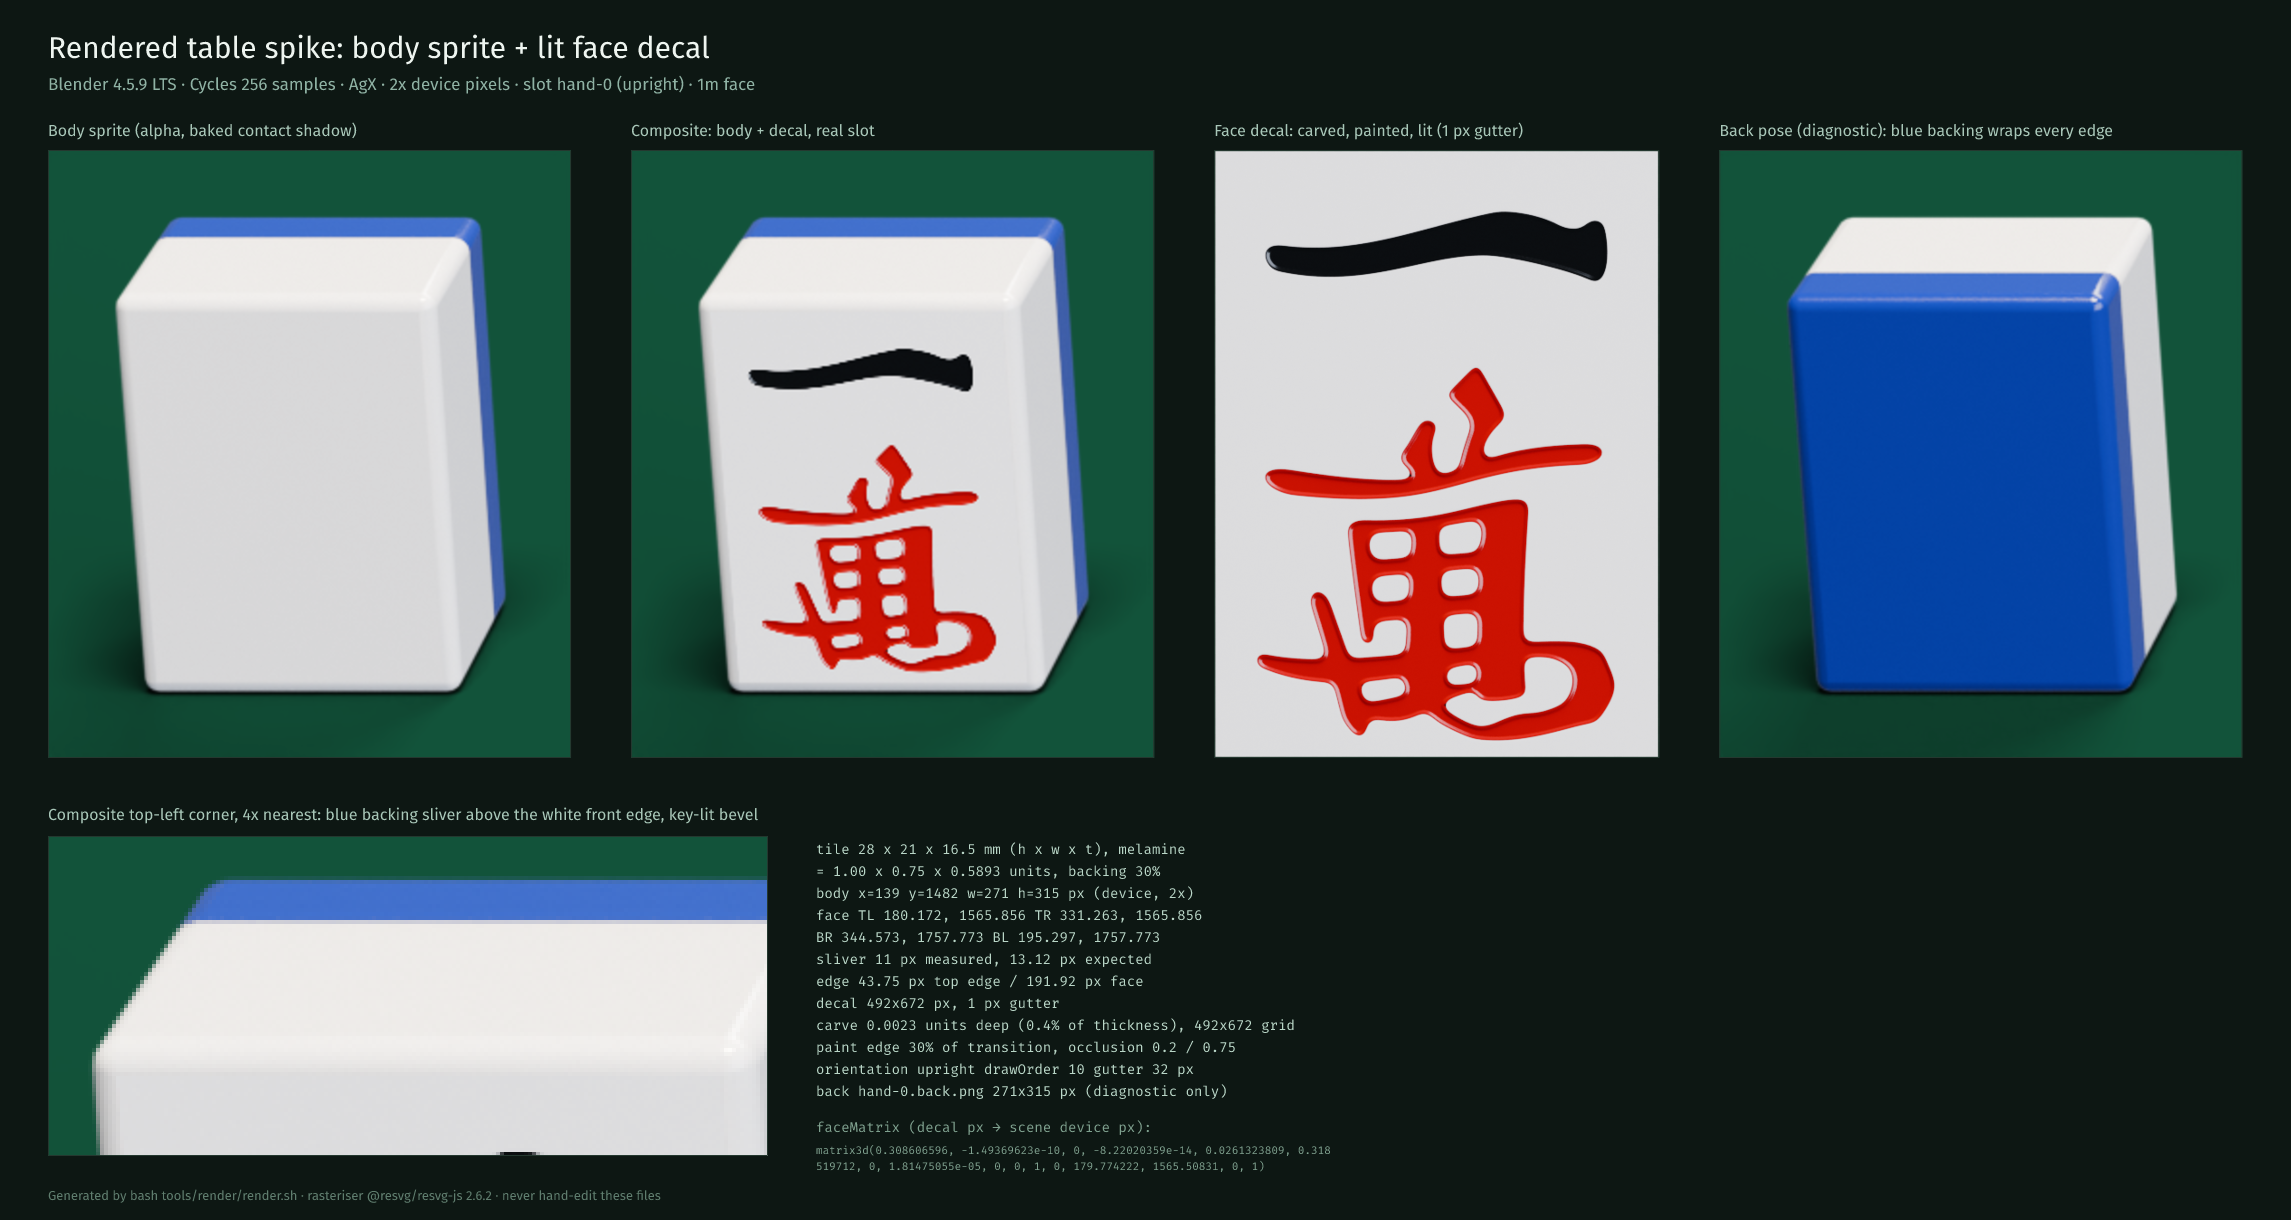
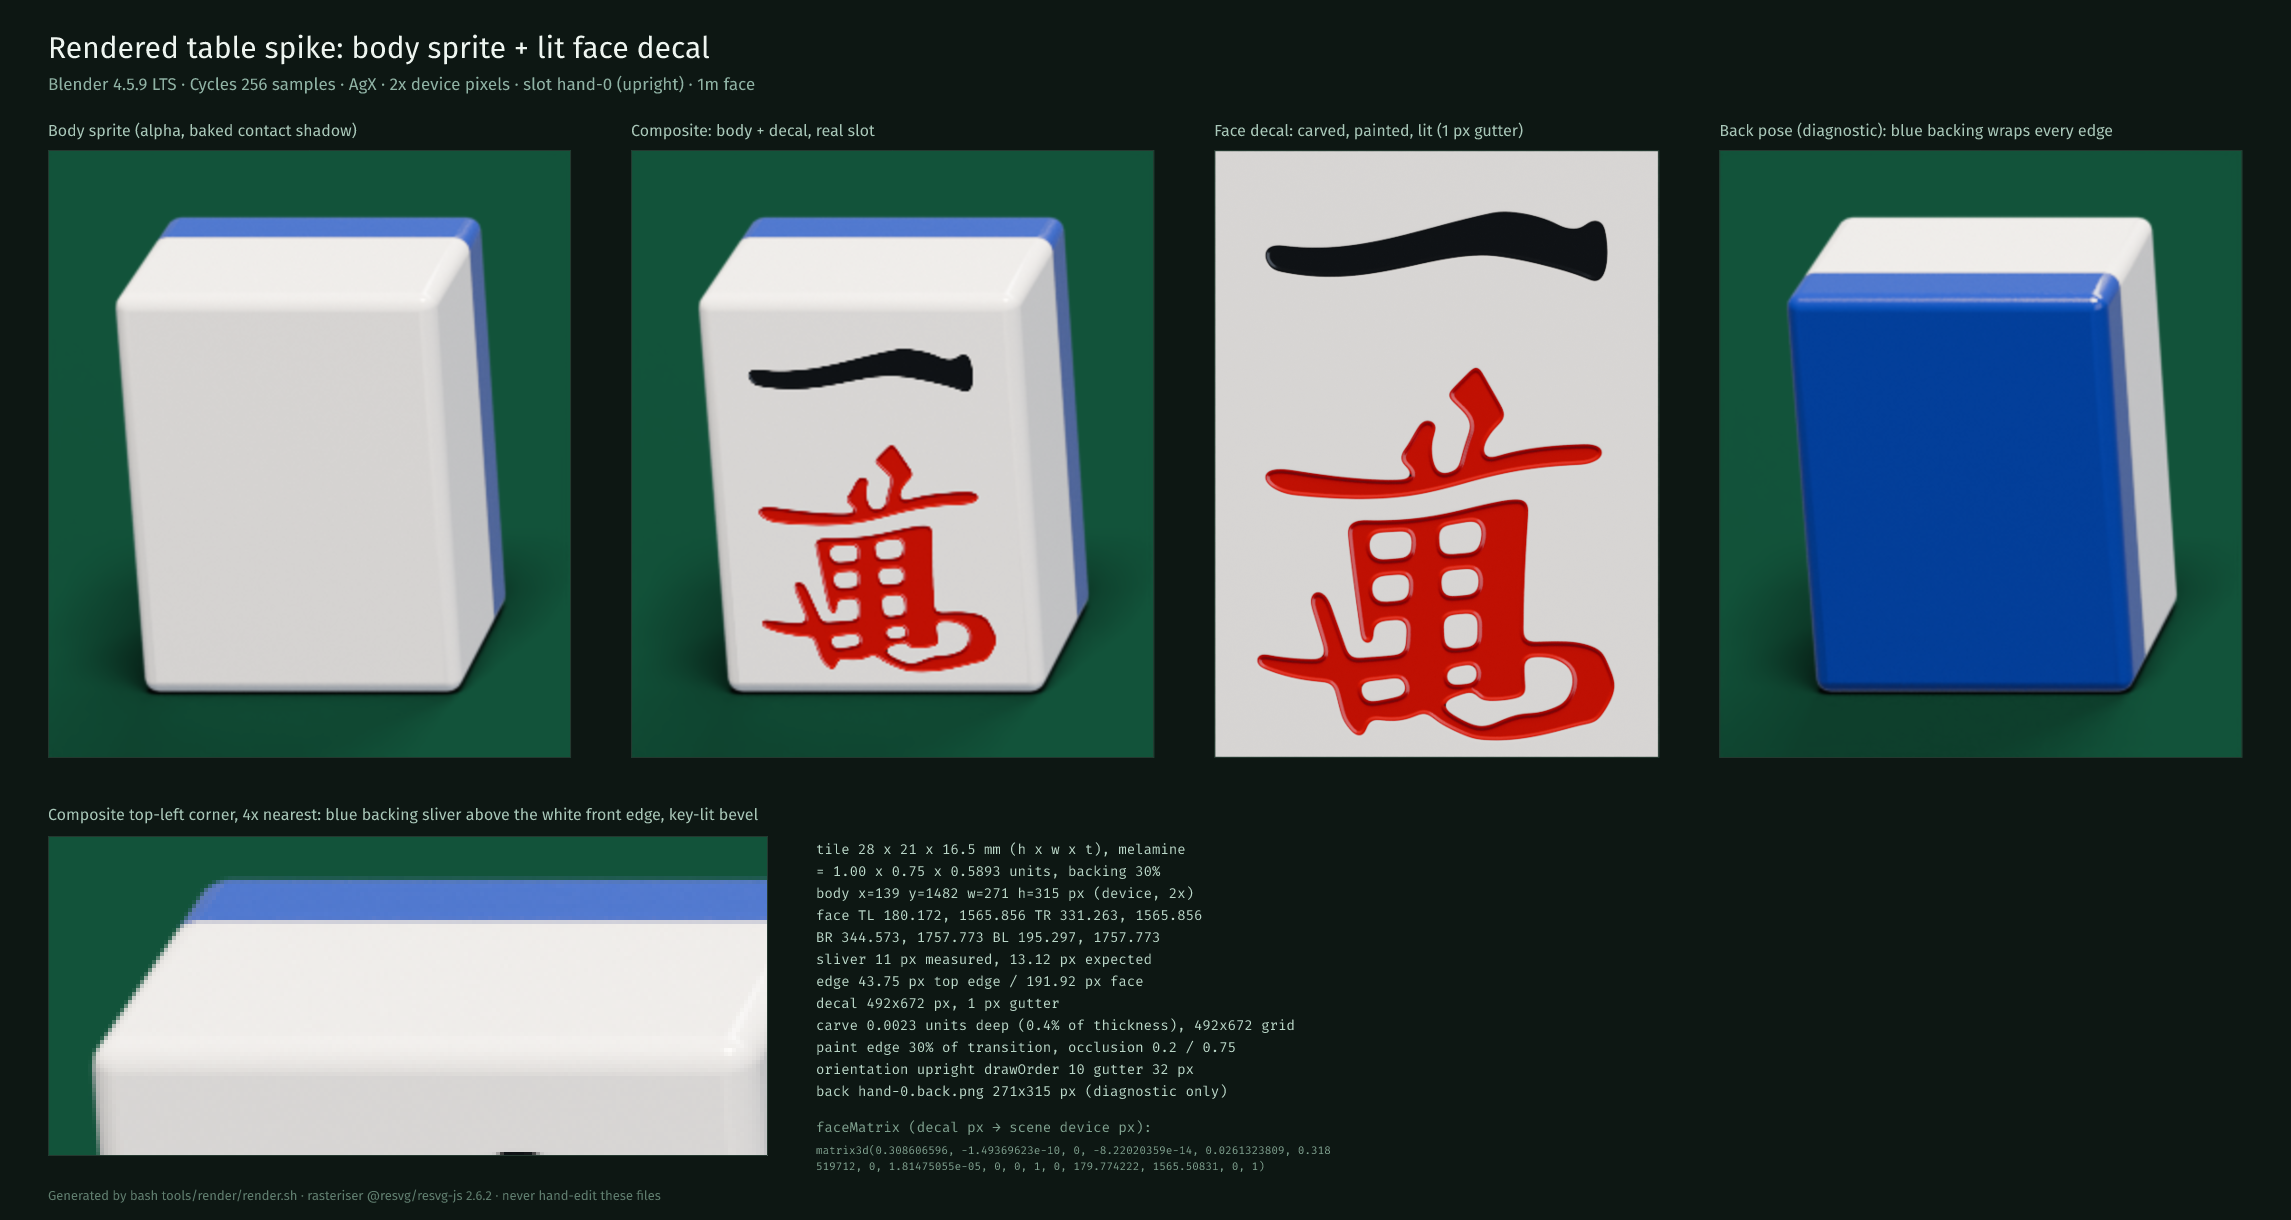
render: rebalance the rig as key-dominant, add a full-tile tuner preview
The fill was 27 kW at 34 units versus the key's 97 kW at 56 units, so on the
vertical face the fill contributed ~1.8x the key's irradiance. It also sits much
closer to the face's specular mirror, so it owned the flat face's sheen and its
highlights moved with the fill. That is inverted key/fill practice.

- key: azimuth 0, elevation 70, 110 kW: dominant, ~3x the fill on the face and
  ~25x on the top edge. Top edge RGB(239,237,234) > face RGB(213,211,209) >
  left bevel RGB(166,167,168), no left-edge highlight.
- fill: azimuth 46, elevation 12, 7 kW: soft and subordinate, lifts the face.
- rim 22 kW, ambient 0.5.
- A frontal fill (0/32 or 25/12) sits on the specular mirror and desaturates the
  glossy paint (floor RGB(194,123,121) vs RGB(192,16,3) at 46/12); documented.

Tuner: add a "Preview image" switch, full tile (body + decal, ~9 s at 32 samples,
skips the back diagnostic) or decal only (fast). Tuning the top/face balance
needs the body, which the decal preview never showed.

Keep the applied carve values and red. Regenerate the spike and document the
rig, the key/fill reasoning and the frontal-fill caveat.

diff --git a/tools/render/tune.html b/tools/render/tune.html
@@ -69,6 +69,16 @@
       }
       .hint { color: var(--muted); font-size: 11.5px; margin-top: 3px; }
       input[type="range"] { width: 100%; accent-color: var(--accent); }
+      select {
+        width: 100%;
+        padding: 7px 9px;
+        border-radius: 6px;
+        border: 1px solid var(--line);
+        background: #0f1c16;
+        color: var(--text);
+        font: inherit;
+        font-size: 13px;
+      }
       input[type="color"] {
         width: 100%;
         height: 34px;
@@ -187,6 +197,15 @@
           <div class="hint">Render cost only; denoised either way.</div>
         </div>
 
+        <div class="control">
+          <div class="row"><label for="mode">Preview image</label><output id="modeOut"></output></div>
+          <select id="mode">
+            <option value="tile">Full tile (body + decal)</option>
+            <option value="decal">Decal only (fast)</option>
+          </select>
+          <div class="hint">The full tile shows the body's top-edge and side lighting; it takes ~3× longer.</div>
+        </div>
+
         <details open>
           <summary>Lighting</summary>
           <div class="hint" style="margin-bottom: 12px">
@@ -295,6 +314,7 @@
           fillPower: Number(el("fillPower").value),
           rimPower: Number(el("rimPower").value),
           worldStrength: Number(el("worldStrength").value),
+          mode: el("mode").value,
           samples: Number(el("samples").value),
         };
       }
@@ -319,6 +339,7 @@
         set("fillPower", params.fillPower);
         set("rimPower", params.rimPower);
         set("worldStrength", params.worldStrength);
+        if (params.mode) el("mode").value = params.mode;
         set("samples", params.samples ?? 48);
       }
 
@@ -440,7 +461,18 @@
         el("paintRedOut").textContent = params.paintRed;
         el("profileNote").textContent =
           "The curve is the exact Bézier the mesh uses; the horizontal scale is physical, the depth is exaggerated.";
-        el("decalDims").textContent = "preview 2× · final 3×";
+        el("modeOut").textContent = params.mode === "decal" ? "decal only" : "full tile";
+      }
+
+      const images = { tile: null, decal: null };
+
+      function showPreview() {
+        const mode = el("mode").value;
+        const src = images[mode] ?? images[mode === "tile" ? "decal" : "tile"];
+        if (src) el("decal").src = src;
+        el("decalDims").textContent =
+          mode === "tile" ? "body + decal · preview 2× · final 3×" : "decal · preview 2× · final 3×";
+        el("modeOut").textContent = mode === "decal" ? "decal only" : "full tile";
       }
 
       function drawAll() {
@@ -462,8 +494,10 @@
         state.faceHeightMm = data.params.faceHeightMm;
         writeParams(data.params);
         drawAll();
-        if (data.decalExists) {
-          el("decal").src = data.decal;
+        images.decal = data.decalExists ? data.decal : null;
+        images.tile = data.compositeExists ? data.composite : null;
+        if (images.decal || images.tile) {
+          showPreview();
           el("decalTime").textContent = "last preview loaded";
         } else {
           setStatus("No preview yet — press Render preview.");
@@ -488,7 +522,9 @@
           });
           const data = await response.json();
           if (!data.ok) throw new Error(data.error || "render failed");
-          el("decal").src = data.decal;
+          images.decal = data.decal;
+          if (data.composite) images.tile = data.composite;
+          showPreview();
           setStatus(`Preview ready in ${data.elapsed}s.`);
         } catch (error) {
           setStatus(`Render failed: ${error.message}`, true);
@@ -516,6 +552,10 @@
       for (const id of ids) {
         el(id).addEventListener("input", drawAll);
       }
+      el("mode").addEventListener("change", () => {
+        drawAll();
+        showPreview();
+      });
       el("render").addEventListener("click", renderPreview);
       el("apply").addEventListener("click", applyParams);
       el("reset").addEventListener("click", () => {

diff --git a/tools/render/build_and_render.py b/tools/render/build_and_render.py
@@ -1088,9 +1088,11 @@ def main() -> None:
         # Diagnostic only: the same slot face-down, to prove the blue backing
         # wraps the whole body. Real face-down/concealed body poses are baked
         # with the slot inventory (Task 2) and consumed by Tasks 5 and 11.
-        back_slot = dict(slot, pose="hand-upright-back")
-        back_path = out_dir / spec["outputs"]["back"].format(index=slot["index"])
-        bake_body(spec, scene, camera, tile, table, back_slot, out_dir, back_path, gutter)
+        # The tuner's full-tile preview skips it.
+        if not spec.get("preview", {}).get("skipBack"):
+            back_slot = dict(slot, pose="hand-upright-back")
+            back_path = out_dir / spec["outputs"]["back"].format(index=slot["index"])
+            bake_body(spec, scene, camera, tile, table, back_slot, out_dir, back_path, gutter)
 
     # ---- face decal ------------------------------------------------------ #
     tile_spec = spec["tile"]

diff --git a/tools/render/README.md b/tools/render/README.md
@@ -87,9 +87,10 @@ It serves a browser UI (no build step, local only) with:
 - **mask blur** (mm), **paint edge** (fraction + mm inset) and **preview
   samples**;
 - **lighting**: key azimuth/elevation/power/softness, fill azimuth/elevation/
-  power, rim power and ambient strength, with a live top-view compass of the
-  rig. The preview shows the effect on the decal; the body sprites need the full
-  render.
+  power, rim power and ambient strength, with a live top-view compass of the rig;
+- a **preview image** switch: **full tile** (body + decal, shows the top-edge and
+  side lighting) or **decal only** (fast). Full tile is roughly 3× slower but is
+  what you want when tuning lights.
 
 "Render preview" writes a throwaway spec, rasterises the recoloured symbol and
 renders **only the decal** at 2×, 48 samples, a 0.6 carve grid and 4 AO samples —
@@ -297,18 +298,34 @@ light's target (`azimuthDeg`, `elevationDeg`, `distance`; azimuth 0 is front,
 90 right, 180 behind, 270 left), which is what the tuner's direction sliders
 edit. `build_lights` turns those into positions; do not hand-place xyz.
 
-- **key**: azimuth 0, elevation 74, 56 units out. Centred over the hand row, so
-  the up-facing top edge takes ~95% of its irradiance and the vertical face
-  ~28%; nothing is biased to the left any more.
-- **fill**: azimuth 46, elevation 12, 34 units. Lights the face and the right
-  side.
-- **rim**: azimuth 170, elevation 45, 40 units, behind.
-- **ambient** world strength 0.35.
+- **key**: azimuth 0, elevation 70, 56 units out, 110 kW. Centred over the hand
+  row, so the up-facing top edge takes ~95% of its irradiance; nothing is biased
+  left or right. It is the dominant light: on the top edge it is ~25× the fill,
+  and on the vertical face ~3×.
+- **fill**: azimuth 46, elevation 12, 34 units out, 7 kW. A soft, dim fill that
+  lifts the face; it is deliberately not allowed to become a second key.
+- **rim**: azimuth 170, elevation 45, 40 units, 22 kW, behind.
+- **ambient** world strength 0.5, lifting the face without adding highlights.
 
-Watch the fill azimuth: at 25° it sits close to the face's specular mirror and
-the glossy paint picks up a broad white sheen (measured red floor went from
-RGB(204, 18, 1) at 46° to RGB(214, 163, 168) at 25°). Keep it around 45° or drop
-its power; the tuner exposes it so you can see this directly. The effect comes
+Measured on the spike: top edge RGB(239, 237, 234), face RGB(213, 211, 209),
+left bevel RGB(166, 167, 168) — the up-facing edge is the brightest surface and
+there is no left-edge highlight.
+
+**Key/fill practice.** The key is the main light (typically 2–4× the fill): it
+sets the form and the primary highlight and is placed off-axis. The fill is
+soft, dim and near the camera axis; its job is to lift shadows, not to make its
+own highlight. In a top-lit table the key's specular highlight lands on the
+up-facing edges, which is the Tenhou read. A bright or frontal fill breaks that:
+it is much closer to the face's specular mirror, so it owns the flat face's
+sheen and its highlight moves as you change the fill. Our first pass had the
+fill contributing ~1.8× the key to the face, which is why the fill seemed to
+control where the highlights appeared.
+
+Watch the fill direction: at azimuth 0 / elevation 32 (or 25° / 12°) the fill
+sits near the face's specular mirror and the glossy paint picks up a broad white
+sheen that desaturates the red — measured on the paint floor, RGB(192, 16, 3)
+with the fill at 46°/12° versus RGB(194, 123, 121) with a bright frontal fill.
+Keep it around 45°/12° and dim, or raise the paint roughness. The effect comes
 from the light *angle*, not from moving the light closer — see the
 position-independence constraint below.
 

diff --git a/rendered-table-plan.md b/rendered-table-plan.md
@@ -414,13 +414,15 @@ for Tasks 2–3:
   face. Consequence for Task 3: each code needs its symbol-only SVG and a
   ~330k-vertex face at `gridScale: 1.0`; expect ~80 s per decal render with AO
   and cut `gridScale`/AO samples for the 190-decal set.
-- **Lighting is top-heavy.** The rig is spherical (azimuth/elevation/distance
-  around each target): the key sits at 0° / 74° over the hand row, so the
-  up-facing edge is the brightest surface with no left/right bias; the fill is
-  at 46° / 12° and the rim behind at 170° / 45°. The angles do the work; the rig
-  stays distant for decals. A frontal fill (< ~35° azimuth) puts a broad
-  specular sheen on the glossy paint and washes the red out, so it is kept at
-  ~45°.
+- **Lighting is top-heavy, key-dominant.** The rig is spherical
+  (azimuth/elevation/distance around each target): the key sits at 0° / 70° over
+  the hand row (110 kW), the fill at 46° / 12° (7 kW) and the rim behind at
+  170° / 45°; ambient 0.5. The key is the main light — ~25× the fill on the top
+  edge and ~3× on the face — so the up-facing edge is the brightest surface with
+  no left/right bias. A bright or frontal fill sits near the face's specular
+  mirror, owns the flat face's sheen and desaturates the glossy paint, so the
+  fill is kept dim and off-axis. The angles do the work; the rig stays distant
+  for decals.
 
 ## 13. Task chain
 
